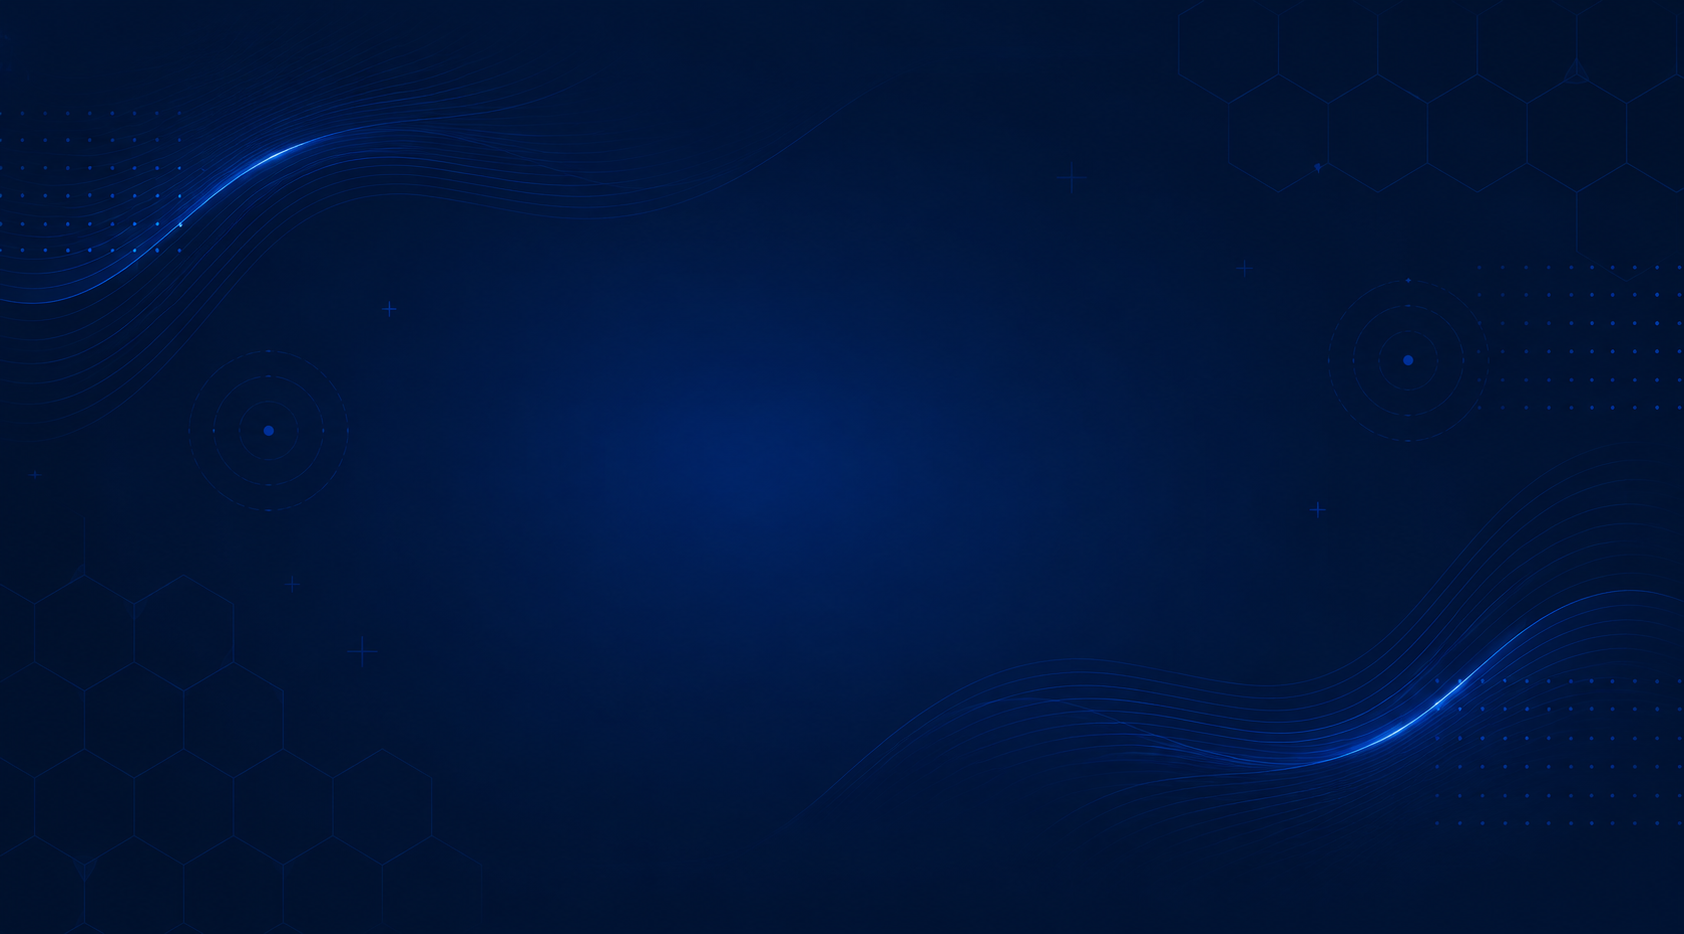
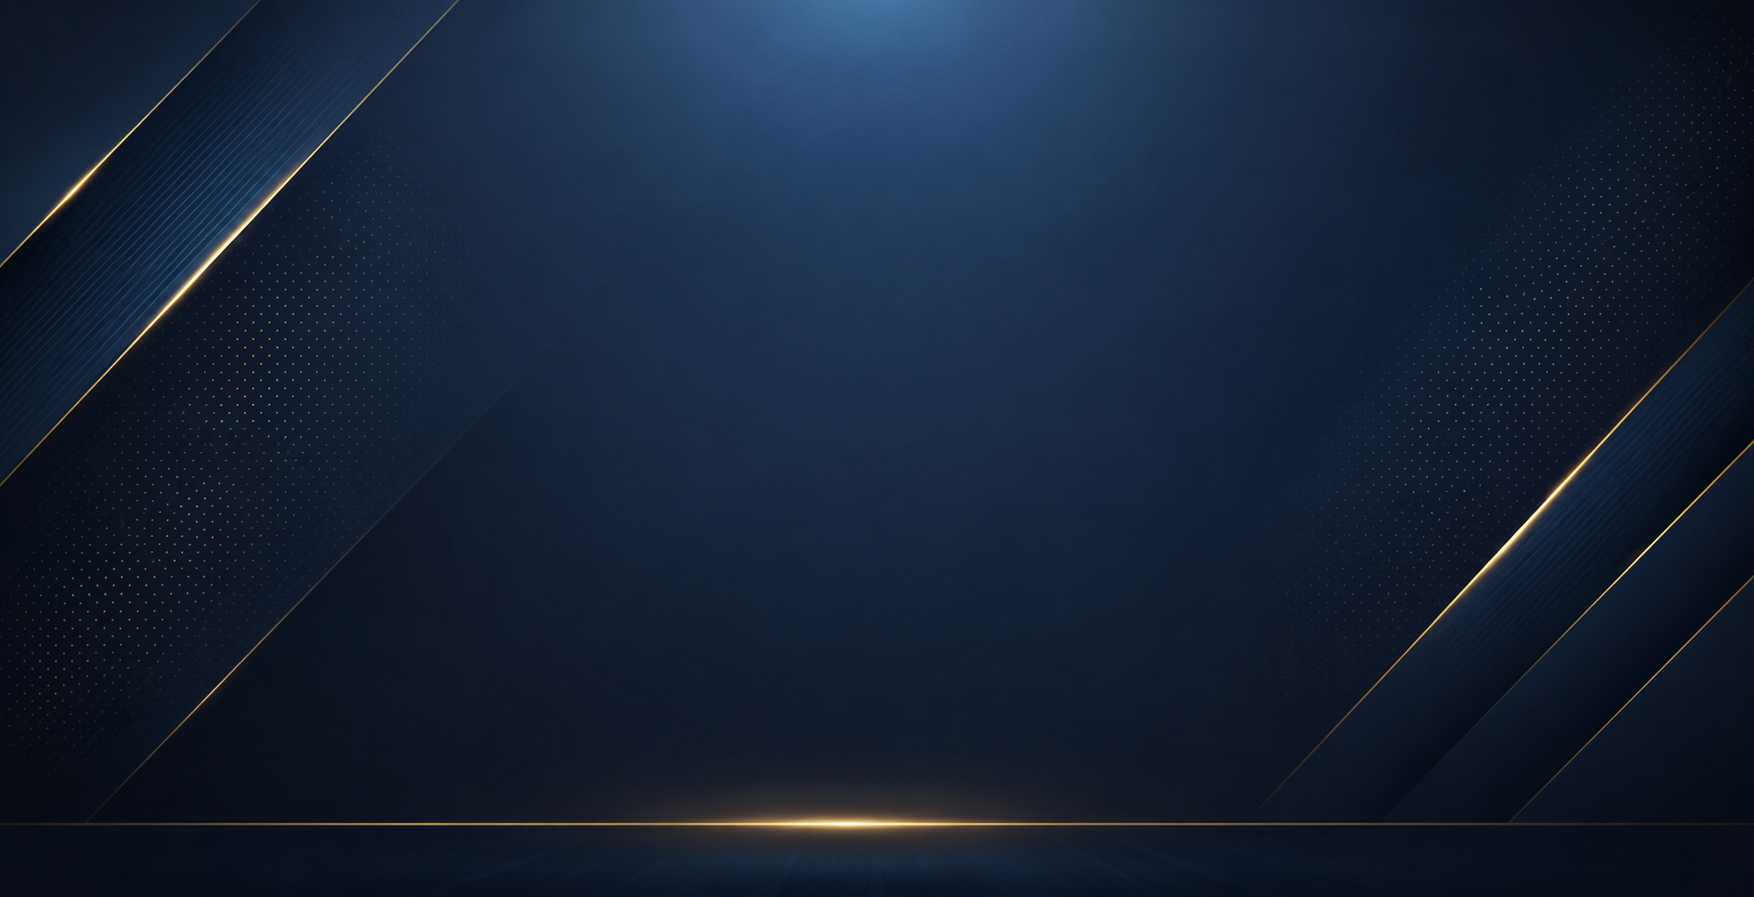
refactor: adjust layout and spacing in tvscreenView component and update background asset

diff --git a/src/pages/tvscreenView.jsx b/src/pages/tvscreenView.jsx
@@ -268,7 +268,7 @@ function TvScreen() {
           padding="1vw"
           gap="1vw"
         >
-          
+
           <Box
             sx={{
               height: "auto",
@@ -278,7 +278,7 @@ function TvScreen() {
           >
             <img src={mainLogo} alt="" className="object-contain w-full" />
           </Box>
-        <SpotRate />
+          <SpotRate />
         </Grid>
 
 